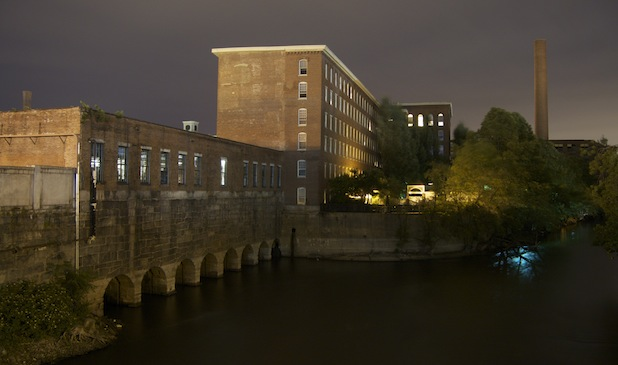
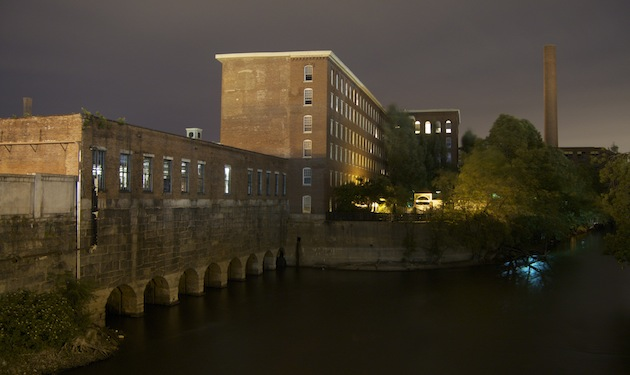
contact info; tweeked image

diff --git a/index.html b/index.html
@@ -60,7 +60,7 @@
     </div>
     
     <div id="main" role="main" class="span-16 last hyphenate"> 
-     <img src="images/Lowell.jpg" width=618 height=365>
+     <img src="images/Lowell.jpg" width=630 height=375>
      <hr class="space">
      <p>Rony Kubat is a PhD candidate in Computer Science at MIT. His <a
         href="http://www.media.mit.edu/cogmac/">research</a> focus has been at the crossroads of computer
@@ -80,7 +80,9 @@
     
      <footer class="prepend-6 span-16 last quiet">
        <hr>
-       <div class="span-8" style="text-align:left">contact</div>
+       <div class="span-8" style="text-align:left">
+         <span class="codedirection">ude.tim.aidem@tabuk</span>
+       </div>
        <div class="span-8 last" style="text-align:right">&copy;2011</div>
     </footer>
   </div> <!--! end of #container -->

diff --git a/css/style.css b/css/style.css
@@ -171,7 +171,10 @@ body {
     background: white;
 }
 
-
+.codedirection {
+    unicode-bidi:bidi-override; 
+    direction: rtl;
+}
 
 
 
